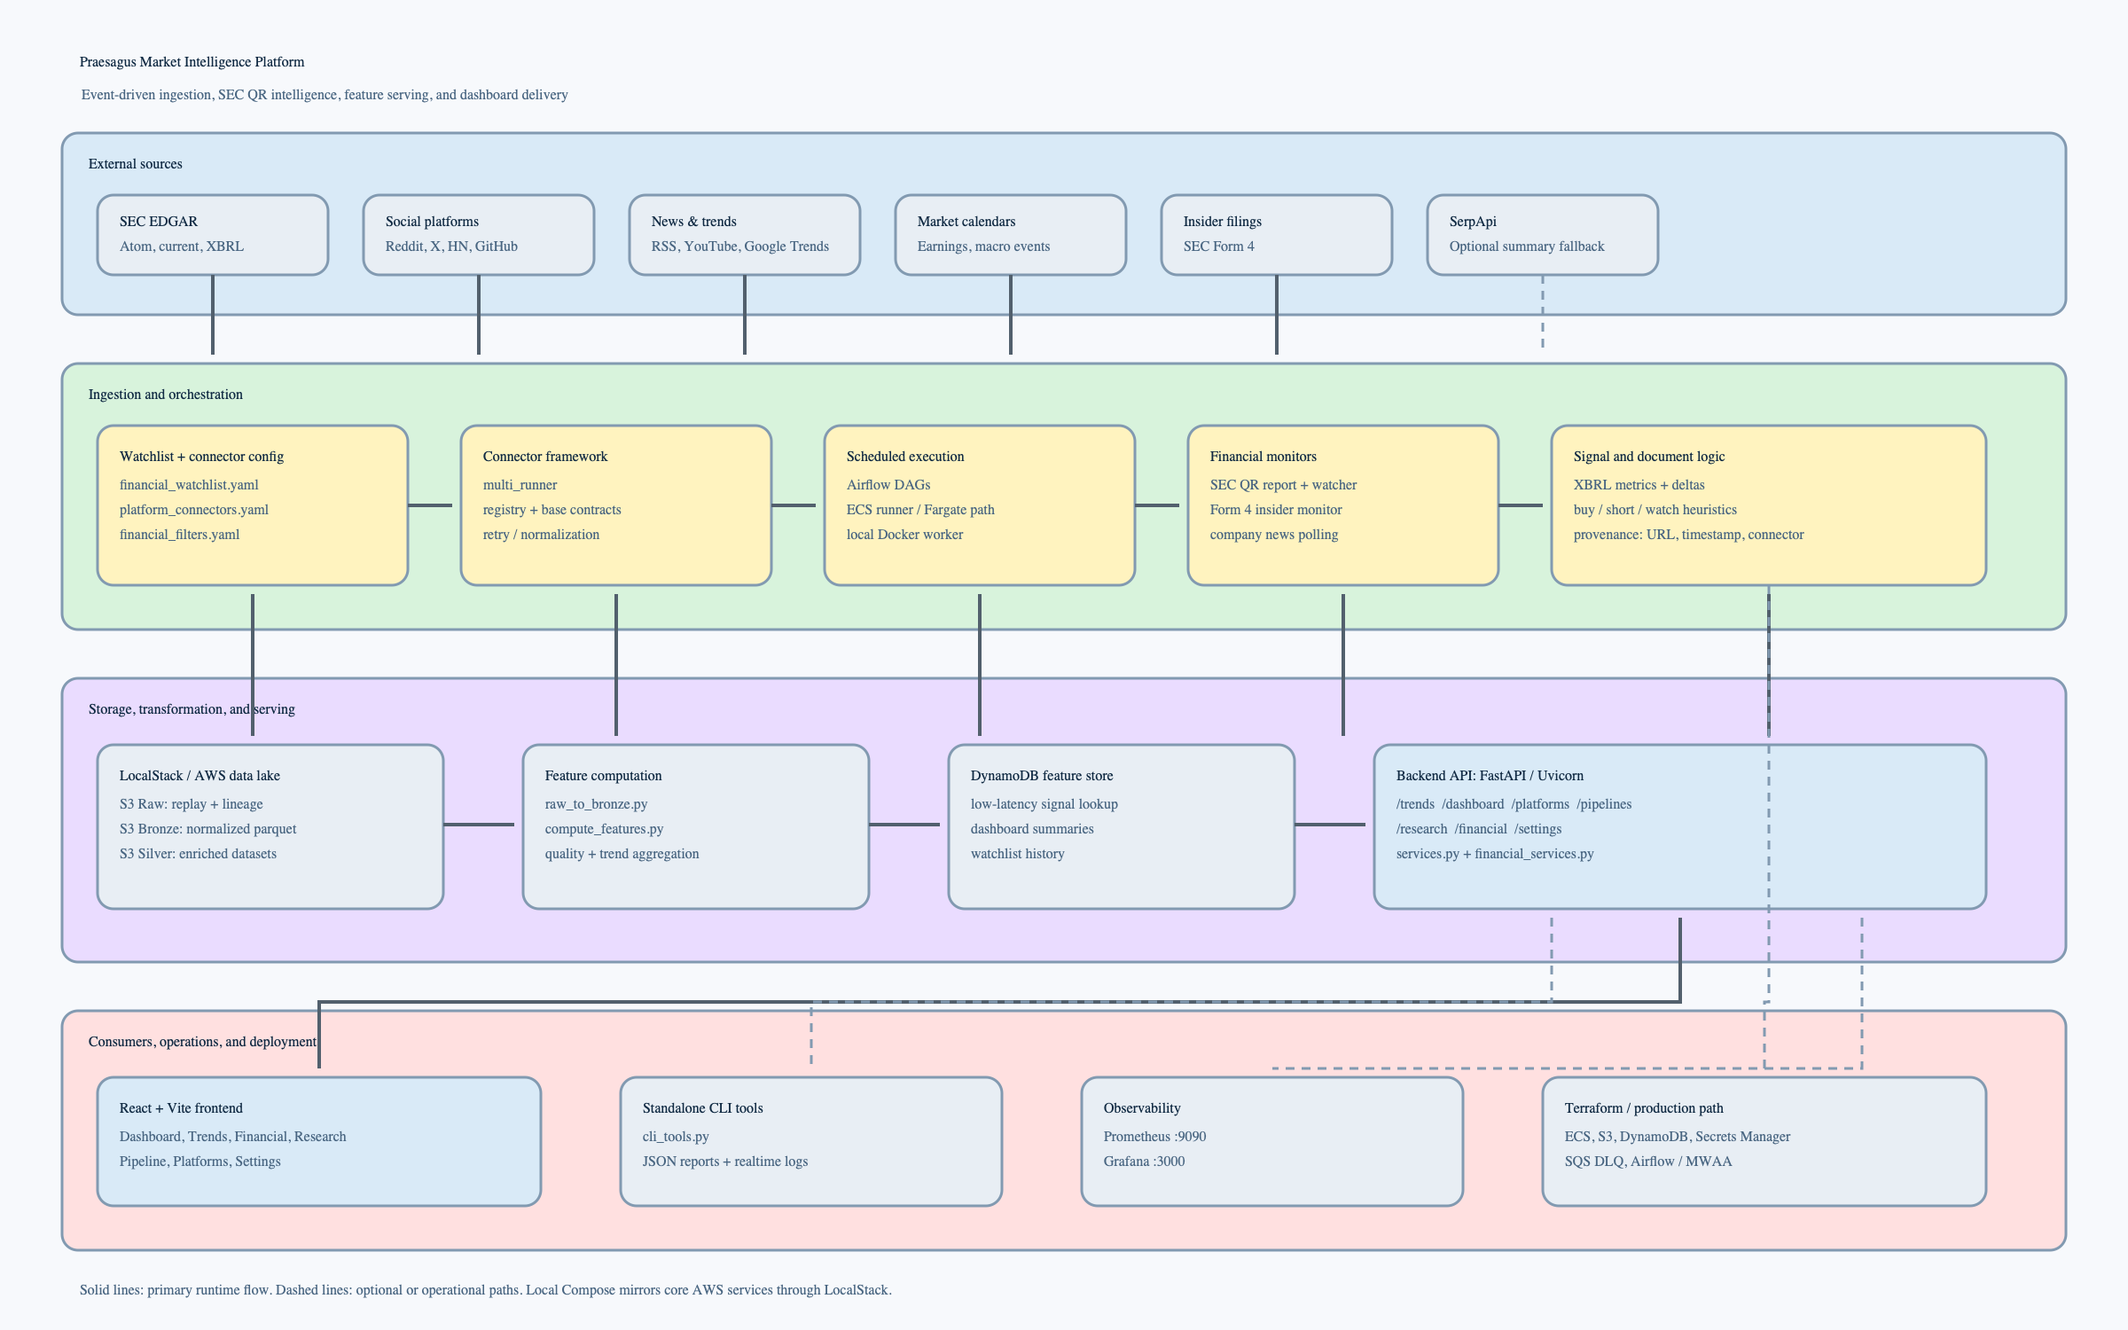
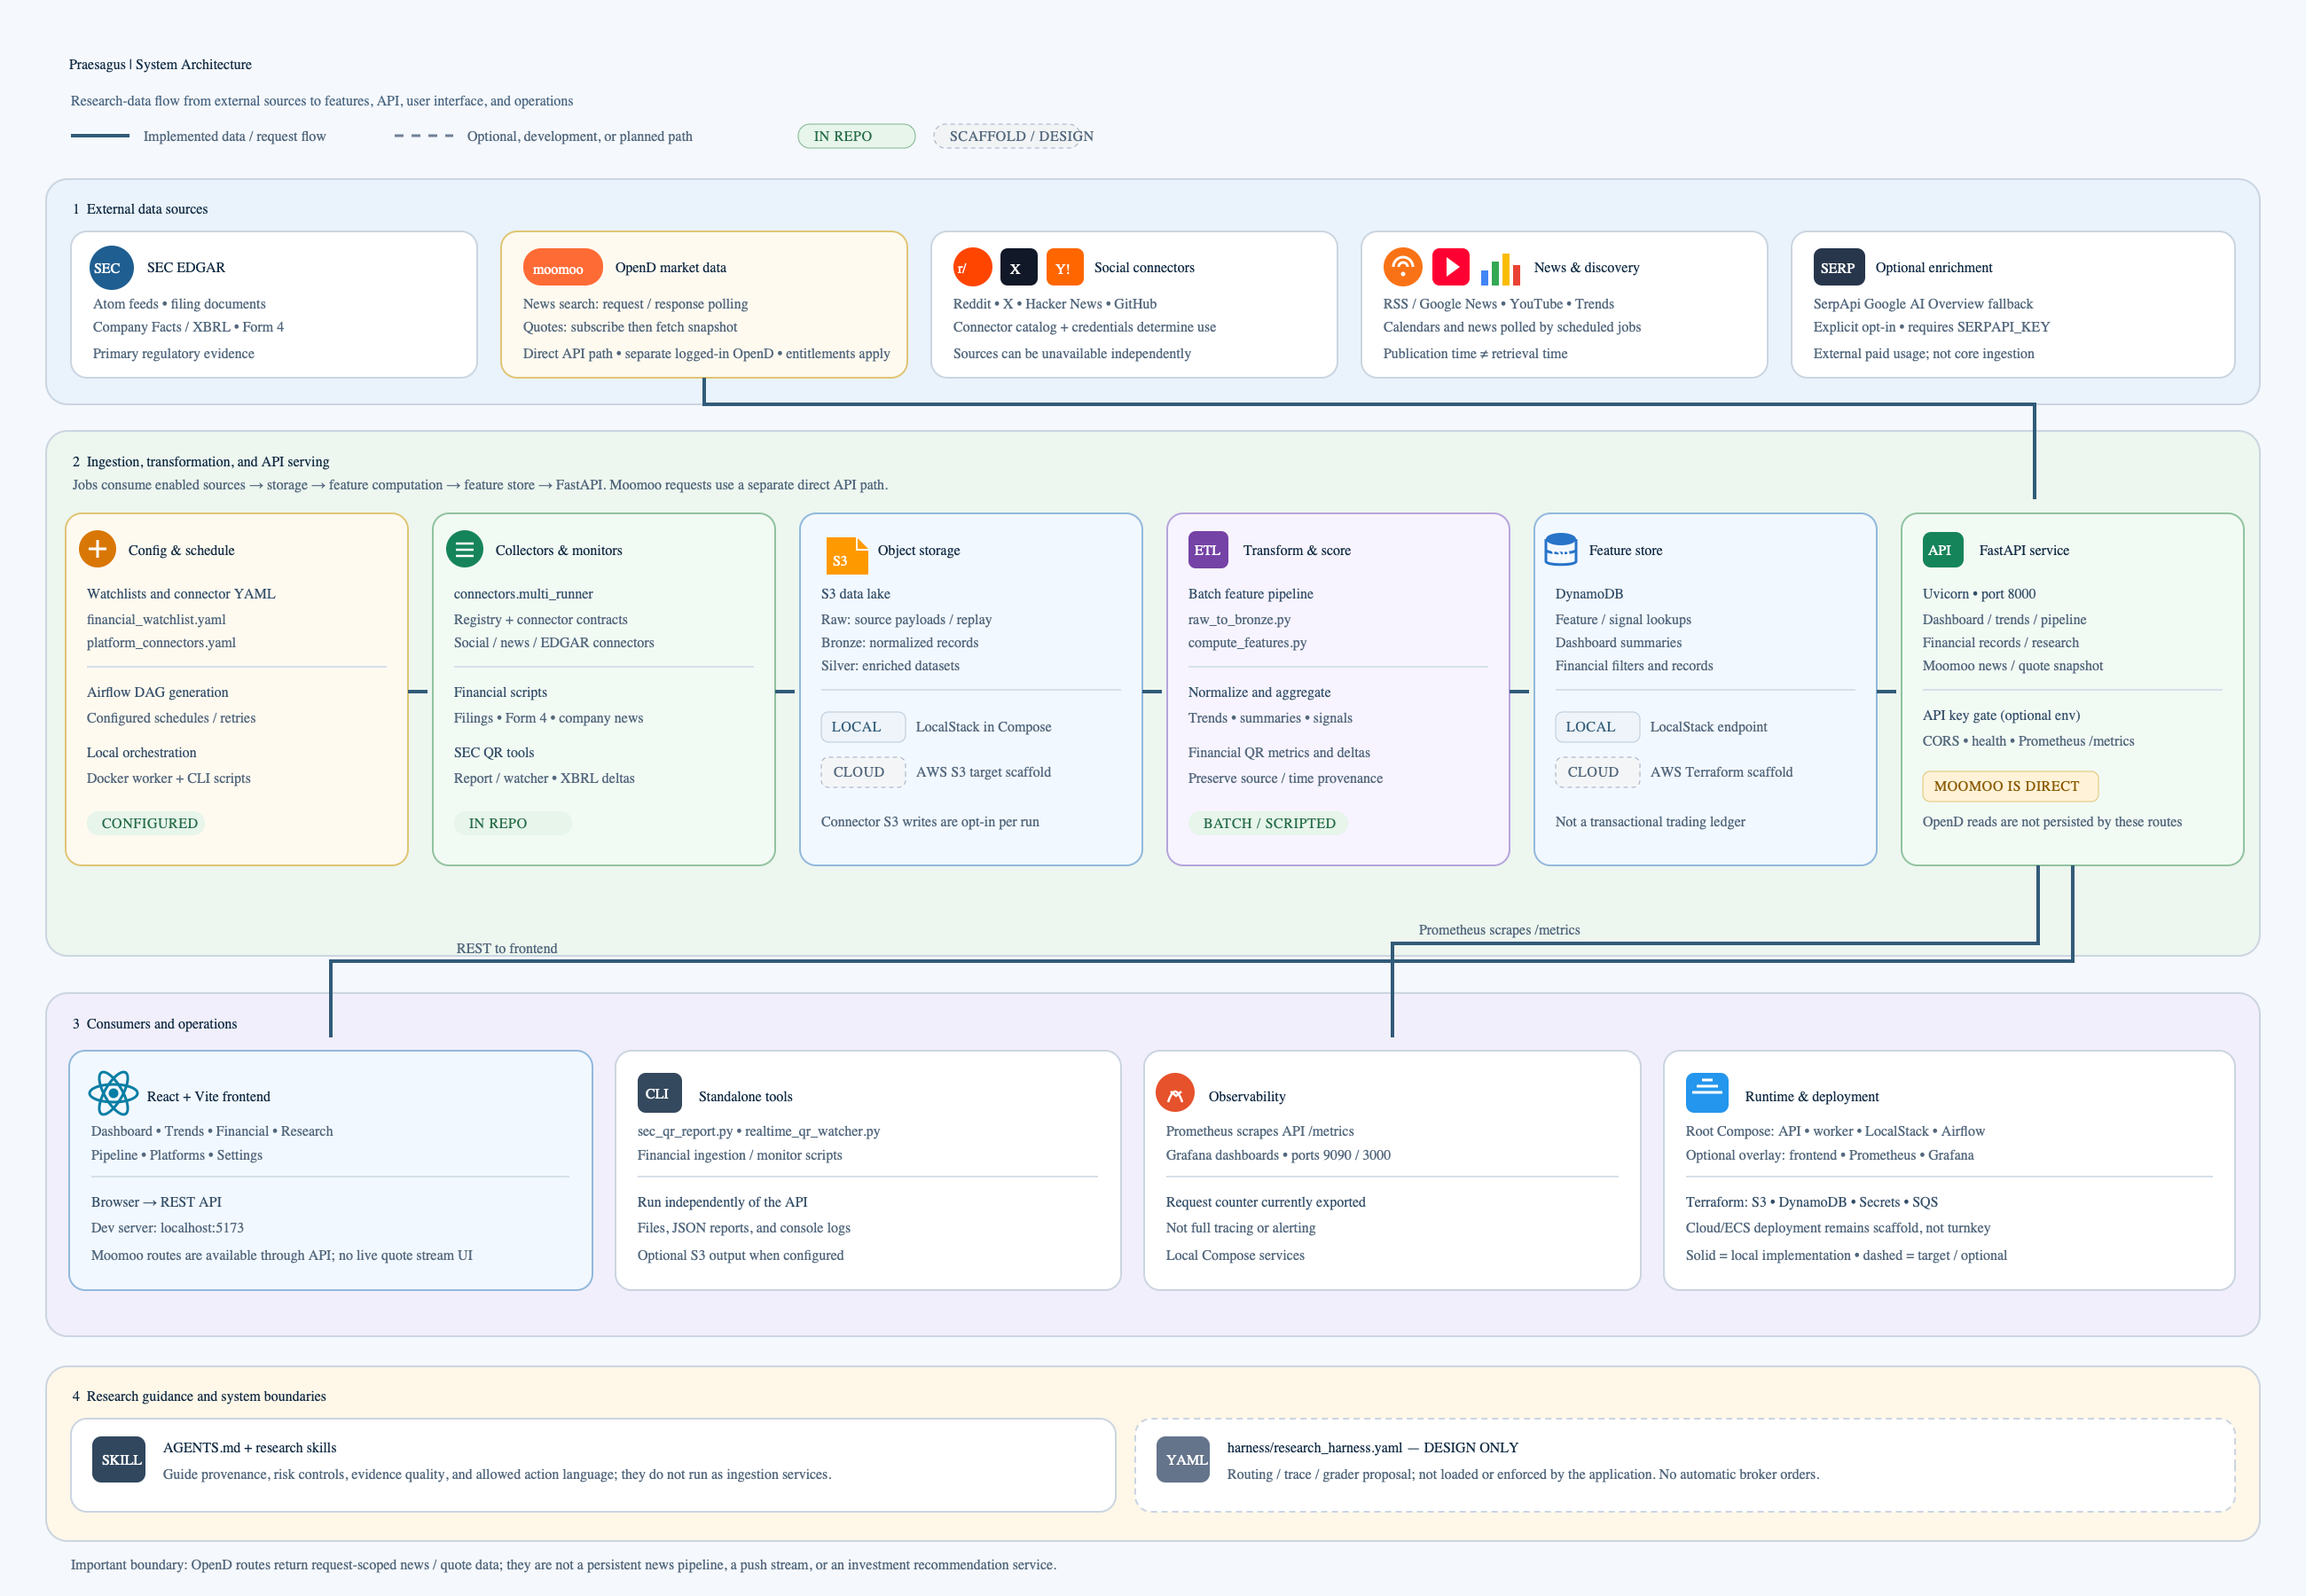
docs(architecture): clarify system flow

diff --git a/README.md b/README.md
@@ -4,11 +4,11 @@ Starter repo for the Praesagus market intelligence platform.
 
 ## Architecture
 
-![Praesagus system architecture](docs/praesagus-architecture.png)
+![Detailed Praesagus architecture diagram with source and infrastructure service marks](docs/praesagus-architecture.png)
 
 Editable source: [docs/praesagus-architecture.svg](docs/praesagus-architecture.svg).
 
-The platform has five runtime layers: external market and social sources; config-driven connectors and scheduled workers; S3 raw/Bronze/Silver storage plus feature computation; DynamoDB-backed FastAPI serving; and React/Vite, CLI, monitoring, and production deployment consumers. Solid lines show primary runtime flow. Dashed lines show optional SerpApi summarization, standalone reports, observability, and Terraform/AWS deployment paths. Local Docker Compose uses LocalStack to emulate S3 and DynamoDB.
+The diagram separates working local paths from optional or scaffolded cloud paths, labels representative source and infrastructure services, and shows the API-only Moomoo/OpenD route. The architecture is intentionally explicit that Moomoo requests are not persisted by those routes, and the research harness YAML is a design document rather than a running service. The editable vector source is [docs/praesagus-architecture.svg](docs/praesagus-architecture.svg).
 
 ## Quick Start
 
